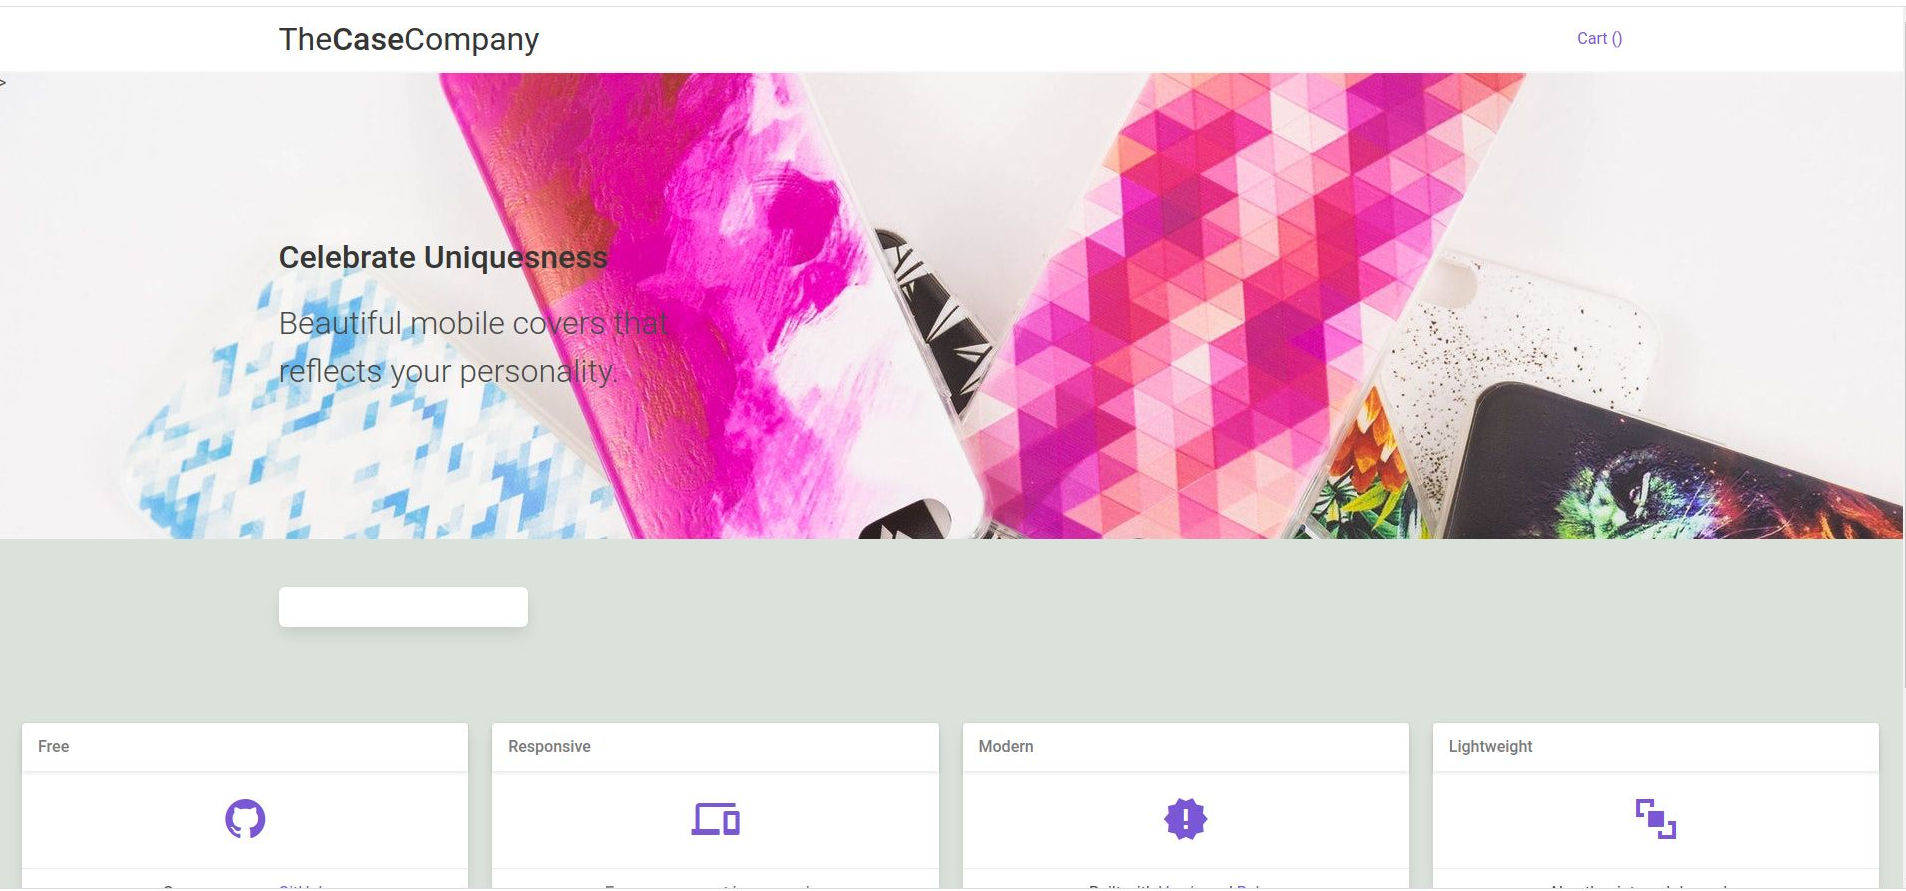
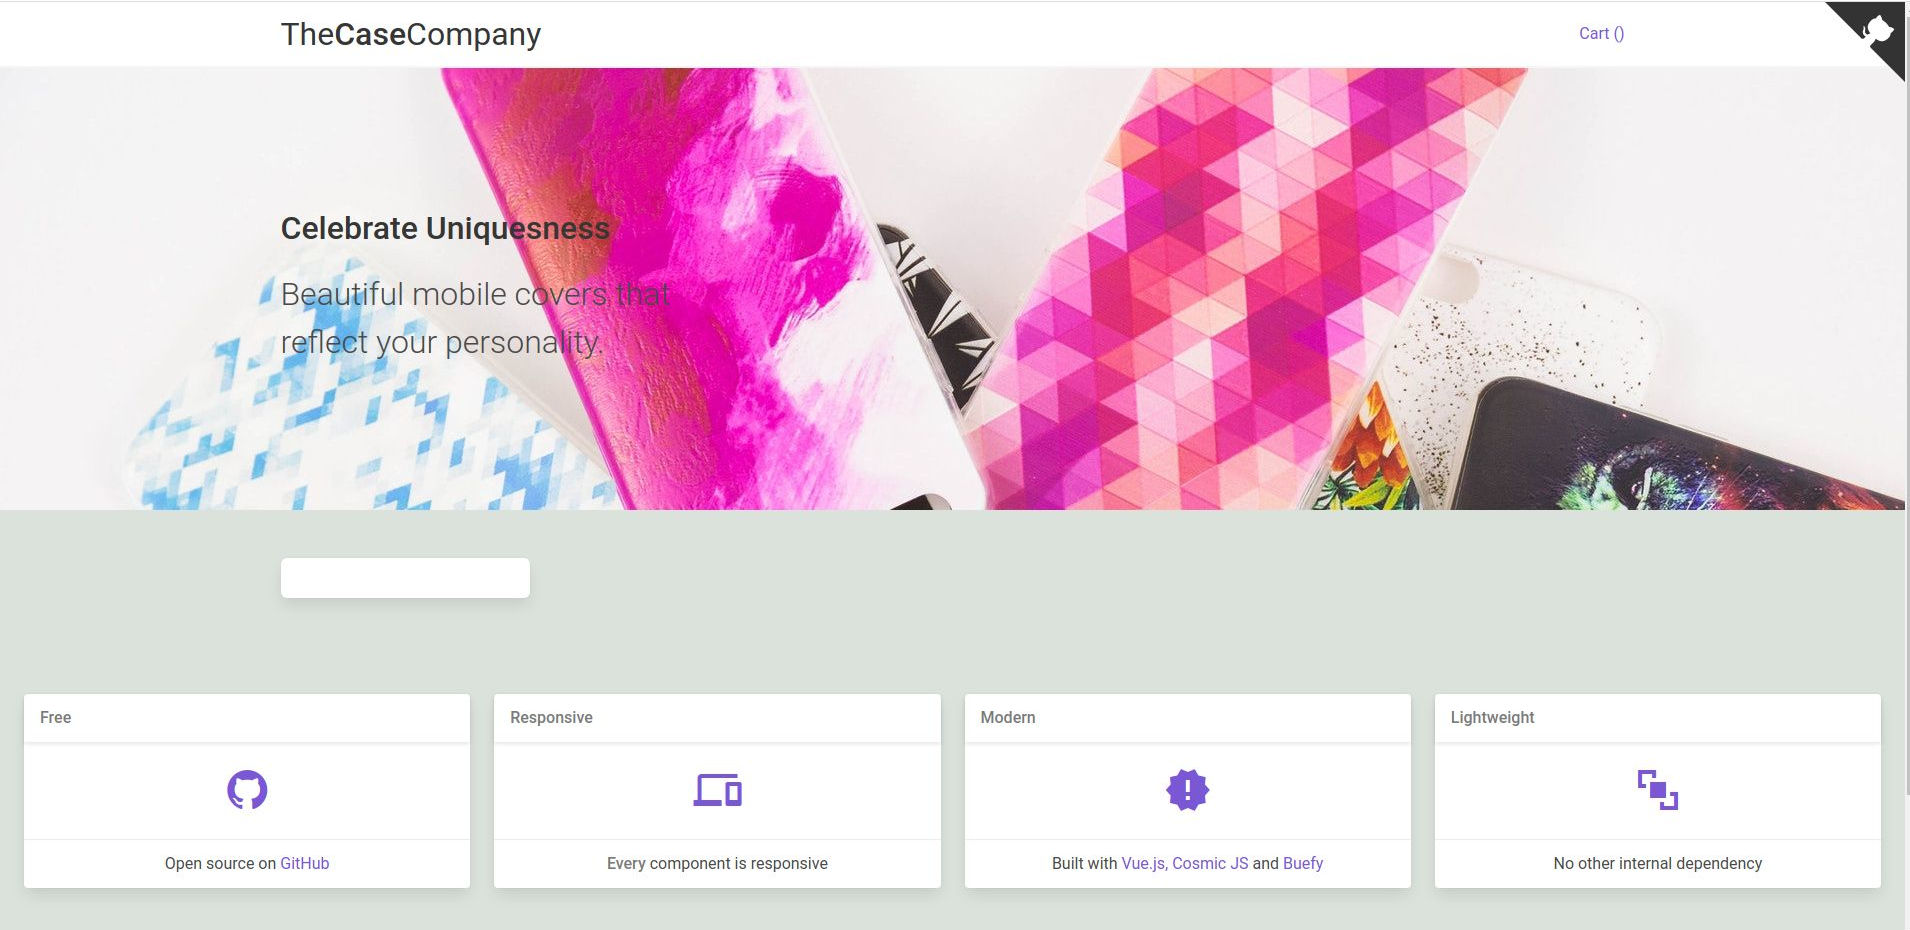
Config

diff --git a/components/ForkThis.vue b/components/ForkThis.vue
@@ -1,0 +1,47 @@
+<template>
+  <div>
+    <a href="https://github.com/xhostcom/vue-nuxt-cosmic-store" class="github-corner" aria-label="View source on Github">
+      <svg width="80" height="80" viewBox="0 0 250 250" aria-hidden="true">
+        <path d="M0,0 L115,115 L130,115 L142,142 L250,250 L250,0 Z" />
+        <path d="M128.3,109.0 C113.8,99.7 119.0,89.6 119.0,89.6 C122.0,82.7 120.5,78.6 120.5,78.6 C119.2,72.0 123.4,76.3 123.4,76.3 C127.3,80.9 125.5,87.3 125.5,87.3 C122.9,97.6 130.6,101.9 134.4,103.2" fill="currentColor" class="octo-arm" />
+        <path d="M115.0,115.0 C114.9,115.1 118.7,116.5 119.8,115.4 L133.7,101.6 C136.9,99.2 139.9,98.4 142.2,98.6 C133.8,88.0 127.5,74.4 143.8,58.0 C148.5,53.4 154.0,51.2 159.7,51.0 C160.3,49.4 163.2,43.6 171.4,40.1 C171.4,40.1 176.1,42.5 178.8,56.2 C183.1,58.6 187.2,61.8 190.9,65.4 C194.5,69.0 197.7,73.2 200.1,77.6 C213.8,80.2 216.3,84.9 216.3,84.9 C212.7,93.1 206.9,96.0 205.4,96.6 C205.1,102.4 203.0,107.8 198.3,112.5 C181.9,128.9 168.3,122.5 157.7,114.1 C157.9,116.9 156.7,120.9 152.7,124.9 L141.0,136.5 C139.8,137.7 141.6,141.9 141.8,141.8 Z" fill="currentColor" />
+      </svg>
+    </a>
+  </div>
+</template>
+
+<style scoped>
+.github-corner:hover .octo-arm {
+  animation: octocat-wave 560ms ease-in-out;
+}
+svg {
+  fill: #333;
+  color: #fff;
+  position: absolute;
+  top: 0;
+  right: 0;
+  border: 0;
+}
+.octo-arm {
+  transform-origin: 130px 106px;
+}
+@keyframes octocat-wave {
+  0%, 100% {
+    transform: rotate(0);
+  }
+  20%, 60% {
+    transform: rotate(-25deg);
+  }
+  40%, 80% {
+    transform: rotate(10deg);
+  }
+}
+@media (max-width: 500px) {
+  .github-corner:hover .octo-arm {
+    animation: none;
+  }
+  .github-corner .octo-arm {
+    animation: octocat-wave 560ms ease-in-out;
+  }
+}
+</style>

diff --git a/nuxt.config.js b/nuxt.config.js
@@ -16,10 +16,12 @@ export default {
   },
 
   // Global CSS: https://go.nuxtjs.dev/config-css
-  css: [],
-
+  css: [
+ 
+   ],
   // Plugins to run before rendering page: https://go.nuxtjs.dev/config-plugins
   plugins: [
+   '~plugins/buefy',
   ],
 
   // Auto import components: https://go.nuxtjs.dev/config-components
@@ -42,5 +44,13 @@ export default {
 
   // Build Configuration: https://go.nuxtjs.dev/config-build
   build: {
+  },
+   /*
+  ** Environment variables
+  */
+  env: {
+    COSMIC_BUCKET: process.env.COSMIC_BUCKET || 'vue-nuxt-cosmic-store',
+    COSMIC_READ_KEY: process.env.COSMIC_READ_KEY,
+    STRIPE_PUBLIC_KEY: process.env.STRIPE_PUBLIC_KEY
   }
 }

diff --git a/plugins/cosmic.js b/plugins/cosmic.js
@@ -1,0 +1,9 @@
+const Cosmic = require('cosmicjs')()
+
+const bucket = Cosmic.bucket({
+  slug: process.env.COSMIC_BUCKET,
+  read_key: process.env.COSMIC_READ_KEY,
+  write_key: process.env.COSMIC_WRITE_KEY
+})
+
+module.exports = bucket

diff --git a/pages/index.vue b/pages/index.vue
@@ -70,7 +70,7 @@
         title="Lightweight"
         icon="arrange-bring-to-front"
       >
-        No other internal dependency
+        No other internal dependency (much)
       </card>
     </div>
   </section>

diff --git a/layouts/default.vue b/layouts/default.vue
@@ -15,6 +15,7 @@
           </div>
         </div>
       </div>
+     <ForkThis /> 
     </nav>
     <nuxt/>
     <footer class="footer">

diff --git a/plugins/buefy.js b/plugins/buefy.js
@@ -1,0 +1,4 @@
+import Vue from 'vue'
+import Buefy from 'buefy'
+
+Vue.use(Buefy)
